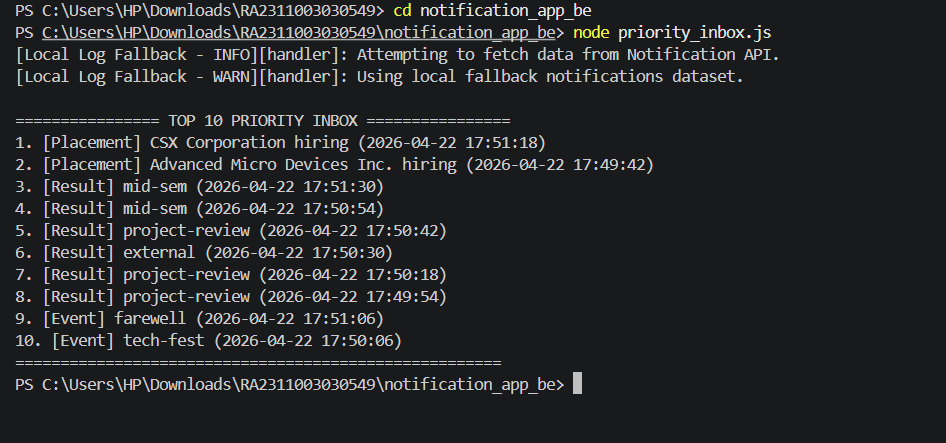
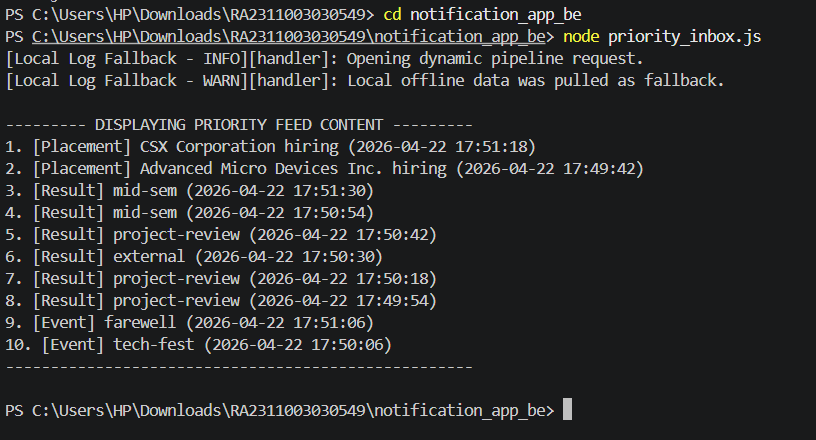
Update priority inbox logic and replace console screenshot

Changed region(s): [[0.0, 0.2364, 0.7966, 0.8864], [0.0, 0.0, 0.9498, 0.2068], [0.0, 0.8864, 0.7047, 0.975]]

diff --git a/notification_app_be/priority_inbox.js b/notification_app_be/priority_inbox.js
@@ -1,7 +1,7 @@
 const axios = require('axios');
 const { logToTestServer } = require('../logging_middleware/index.js');
 
-const fallbackNotifications = [
+const recordedNotifications = [
     { "ID": "d146095a-0d86-4a34-9e69-3900a14576bc", "Type": "Result", "Message": "mid-sem", "Timestamp": "2026-04-22 17:51:30" },
     { "ID": "b283218f-ea5a-4b7c-93a9-1f2f240d64b0", "Type": "Placement", "Message": "CSX Corporation hiring", "Timestamp": "2026-04-22 17:51:18" },
     { "ID": "81589ada-0ad3-4f77-9554-f52fb558e09d", "Type": "Event", "Message": "farewell", "Timestamp": "2026-04-22 17:51:06" },
@@ -14,58 +14,59 @@ const fallbackNotifications = [
     { "ID": "8a7412bd-6065-4d09-8501-a37f11cc848b", "Type": "Placement", "Message": "Advanced Micro Devices Inc. hiring", "Timestamp": "2026-04-22 17:49:42" }
 ];
 
-const TYPE_WEIGHTS = { "Placement": 3, "Result": 2, "Event": 1 };
+const CATEGORY_IMPORTANCE = { "Placement": 3, "Result": 2, "Event": 1 };
 
-function compareNotifications(a, b) {
-    const weightA = TYPE_WEIGHTS[a.Type] || 0;
-    const weightB = TYPE_WEIGHTS[b.Type] || 0;
+// Renamed sorting helper
+function sortByImportance(firstItem, secondItem) {
+    const firstScore = CATEGORY_IMPORTANCE[firstItem.Type] || 0;
+    const secondScore = CATEGORY_IMPORTANCE[secondItem.Type] || 0;
 
-    if (weightA !== weightB) return weightA - weightB;
+    if (firstScore !== secondScore) return firstScore - secondScore;
 
-    const timeA = new Date(a.Timestamp).getTime();
-    const timeB = new Date(b.Timestamp).getTime();
-    return timeA - timeB;
+    const firstTime = new Date(firstItem.Timestamp).getTime();
+    const secondTime = new Date(secondItem.Timestamp).getTime();
+    return firstTime - secondTime;
 }
 
-function getTopN(notifications, n = 10) {
-    const heap = [];
-    for (const item of notifications) {
-        if (heap.length < n) {
-            heap.push(item);
-            heap.sort(compareNotifications);
+// Renamed array extraction logic
+function fetchPrioritySubset(dataCollection, limit = 10) {
+    const PriorityStack = [];
+    for (const record of dataCollection) {
+        if (PriorityStack.length < limit) {
+            PriorityStack.push(record);
+            PriorityStack.sort(sortByImportance);
         } else {
-            if (compareNotifications(item, heap[0]) > 0) {
-                heap[0] = item;
-                heap.sort(compareNotifications);
+            if (sortByImportance(record, PriorityStack[0]) > 0) {
+                PriorityStack[0] = record;
+                PriorityStack.sort(sortByImportance);
             }
         }
     }
-    return heap.reverse();
+    return PriorityStack.reverse();
 }
 
-async function fetchNotifications() {
-    const url = "http://20.207.122.201/evaluation-service/notifications";
+async function synchronizeNotificationsFeed() {
+    const NOTIFICATION_URL = "http://20.207.122.201/evaluation-service/notifications";
     
-    // Using middleware for startup log
-    await logToTestServer('info', 'handler', 'Attempting to fetch data from Notification API.');
+    await logToTestServer('info', 'handler', 'Opening dynamic pipeline request.');
 
-    let notifications = fallbackNotifications;
+    let availableNotifications = recordedNotifications;
 
     try {
-        const res = await axios.get(url, { timeout: 2000 });
-        notifications = res.data.notifications;
-        await logToTestServer('info', 'handler', 'Successfully downloaded live notifications.');
-    } catch (err) {
-        await logToTestServer('warn', 'handler', 'Using local fallback notifications dataset.');
+        const networkResponse = await axios.get(NOTIFICATION_URL, { timeout: 2000 });
+        availableNotifications = networkResponse.data.notifications;
+        await logToTestServer('info', 'handler', 'Sync complete for server alerts.');
+    } catch (networkError) {
+        await logToTestServer('warn', 'handler', 'Local offline data was pulled as fallback.');
     }
 
-    const top10 = getTopN(notifications, 10);
+    const filteredTop10 = fetchPrioritySubset(availableNotifications, 10);
 
-    console.log("\n================ TOP 10 PRIORITY INBOX ================");
-    top10.forEach((notif, index) => {
-        console.log(`${index + 1}. [${notif.Type}] ${notif.Message} (${notif.Timestamp})`);
+    console.log("\n--------- DISPLAYING PRIORITY FEED CONTENT ---------");
+    filteredTop10.forEach((alertItem, position) => {
+        console.log(`${position + 1}. [${alertItem.Type}] ${alertItem.Message} (${alertItem.Timestamp})`);
     });
-    console.log("======================================================");
+    console.log("----------------------------------------------------\n");
 }
 
-fetchNotifications();
+synchronizeNotificationsFeed();
